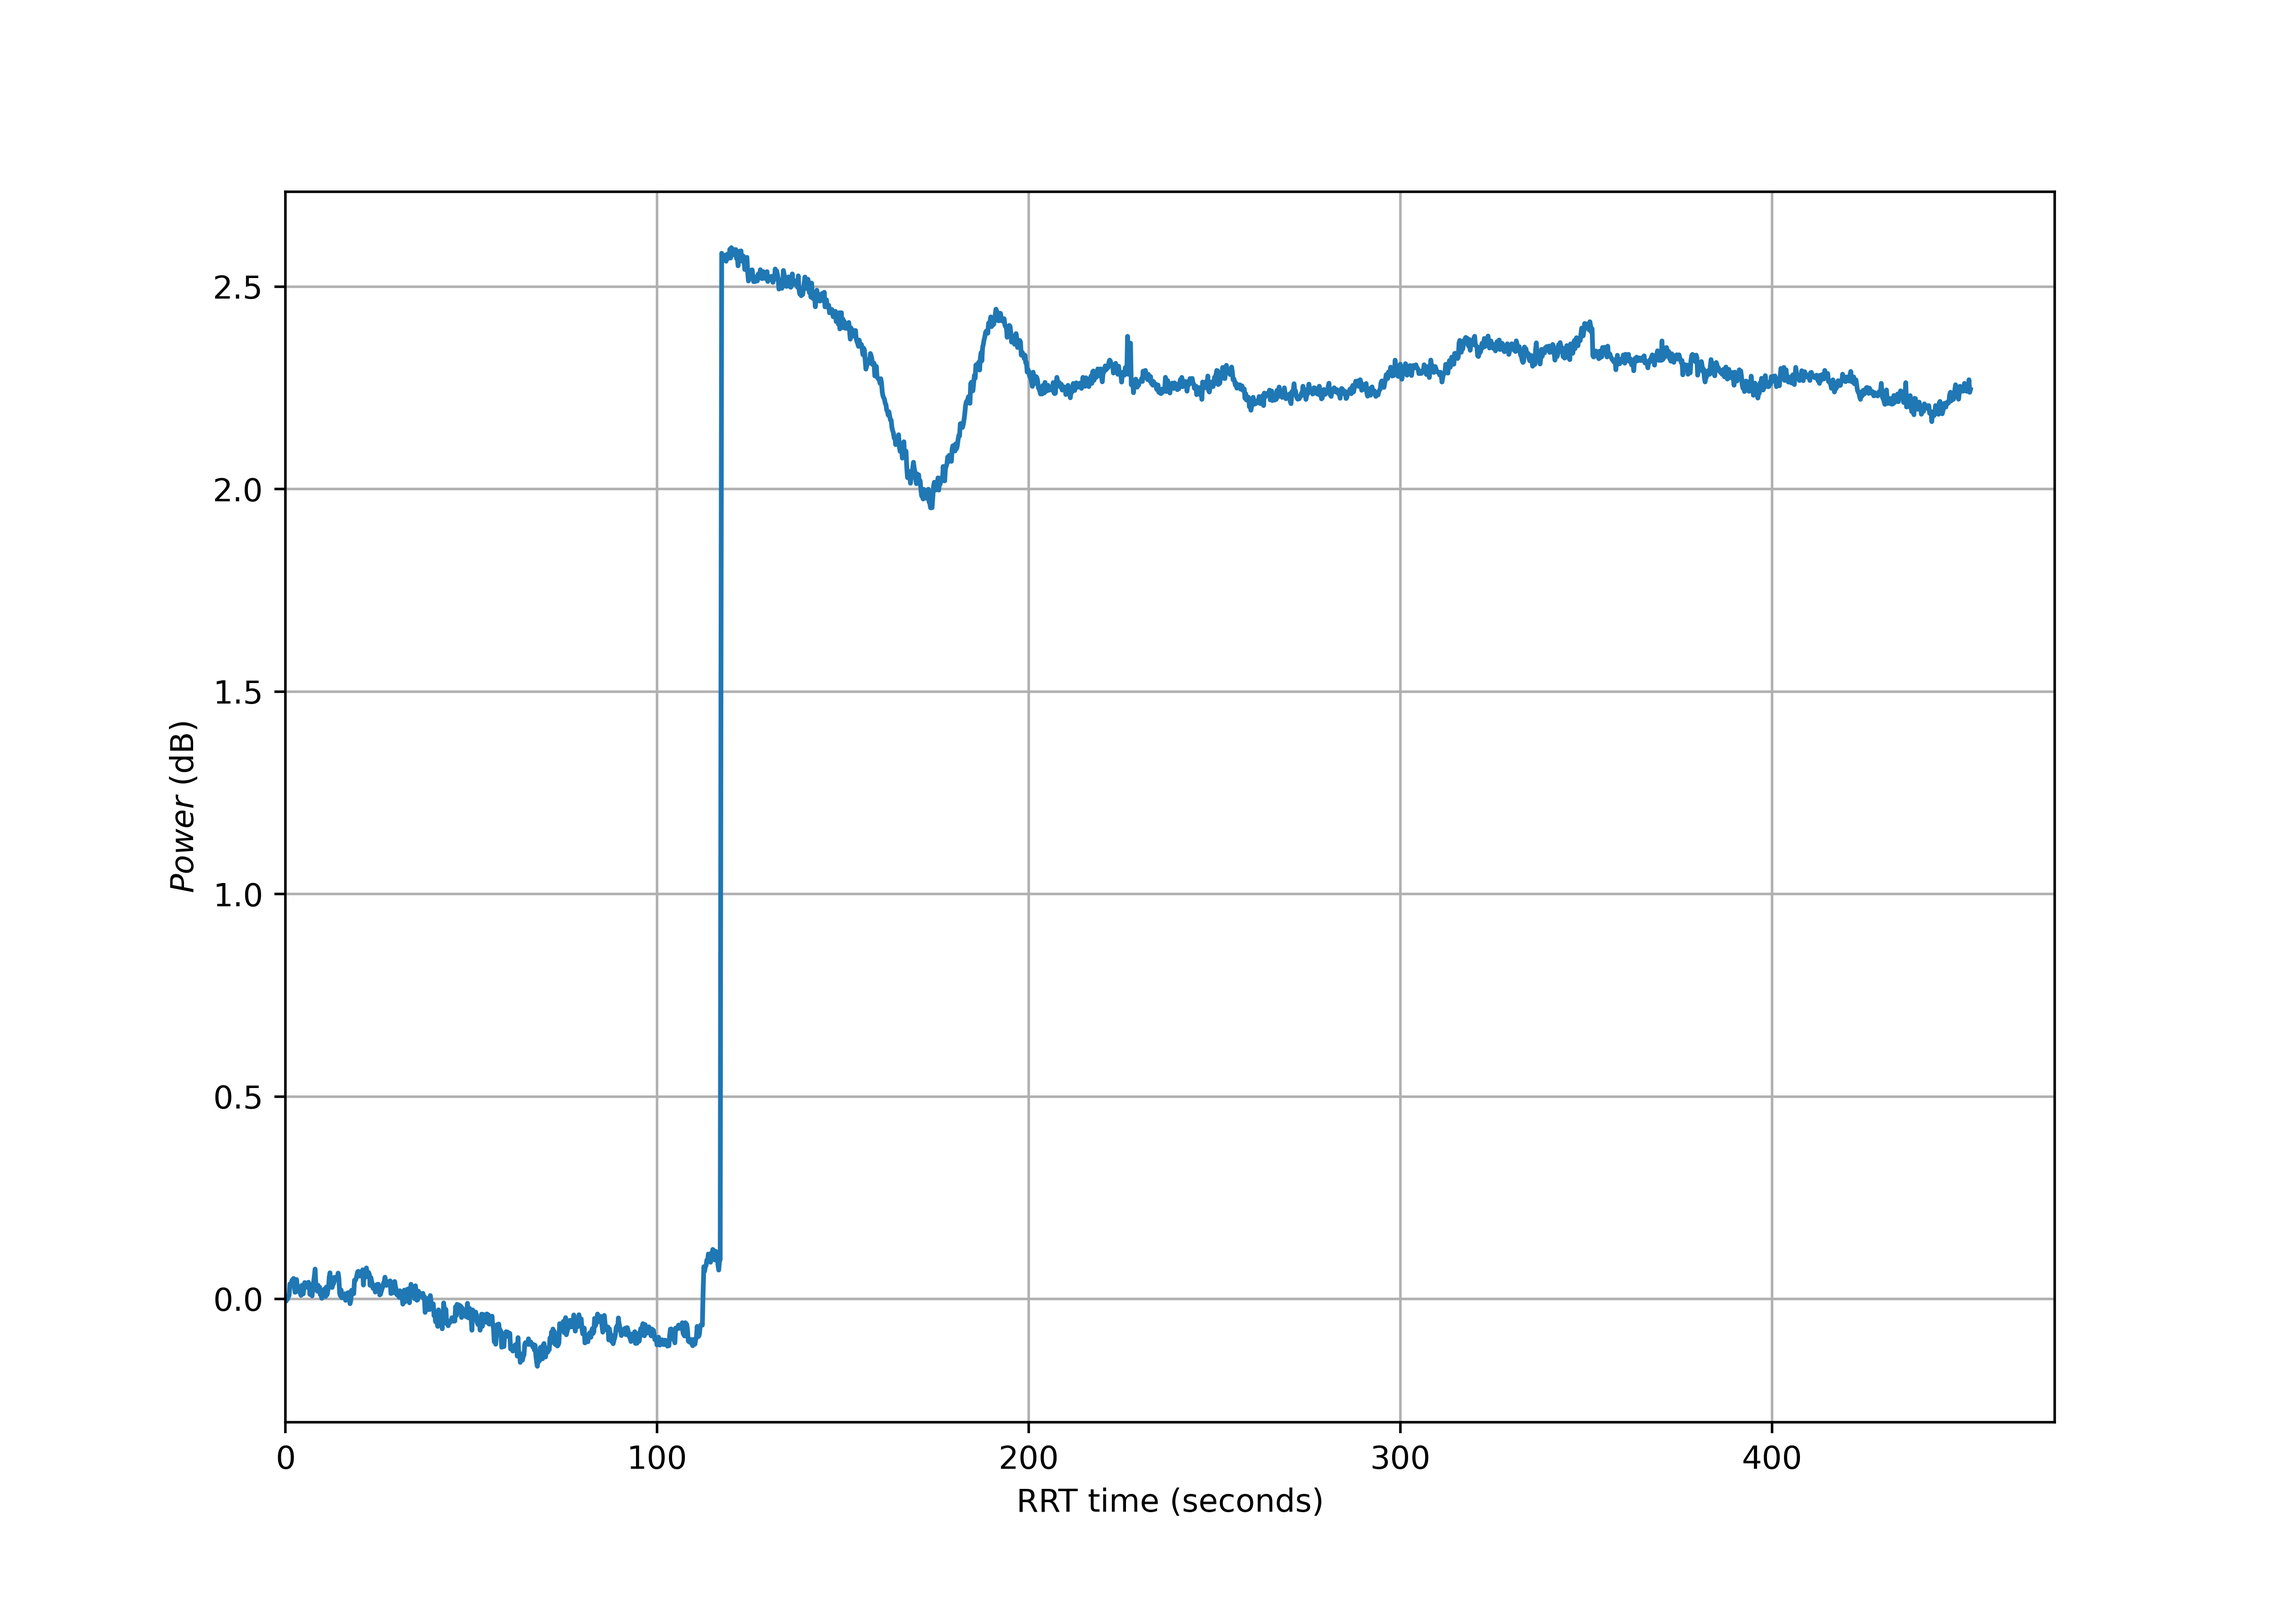
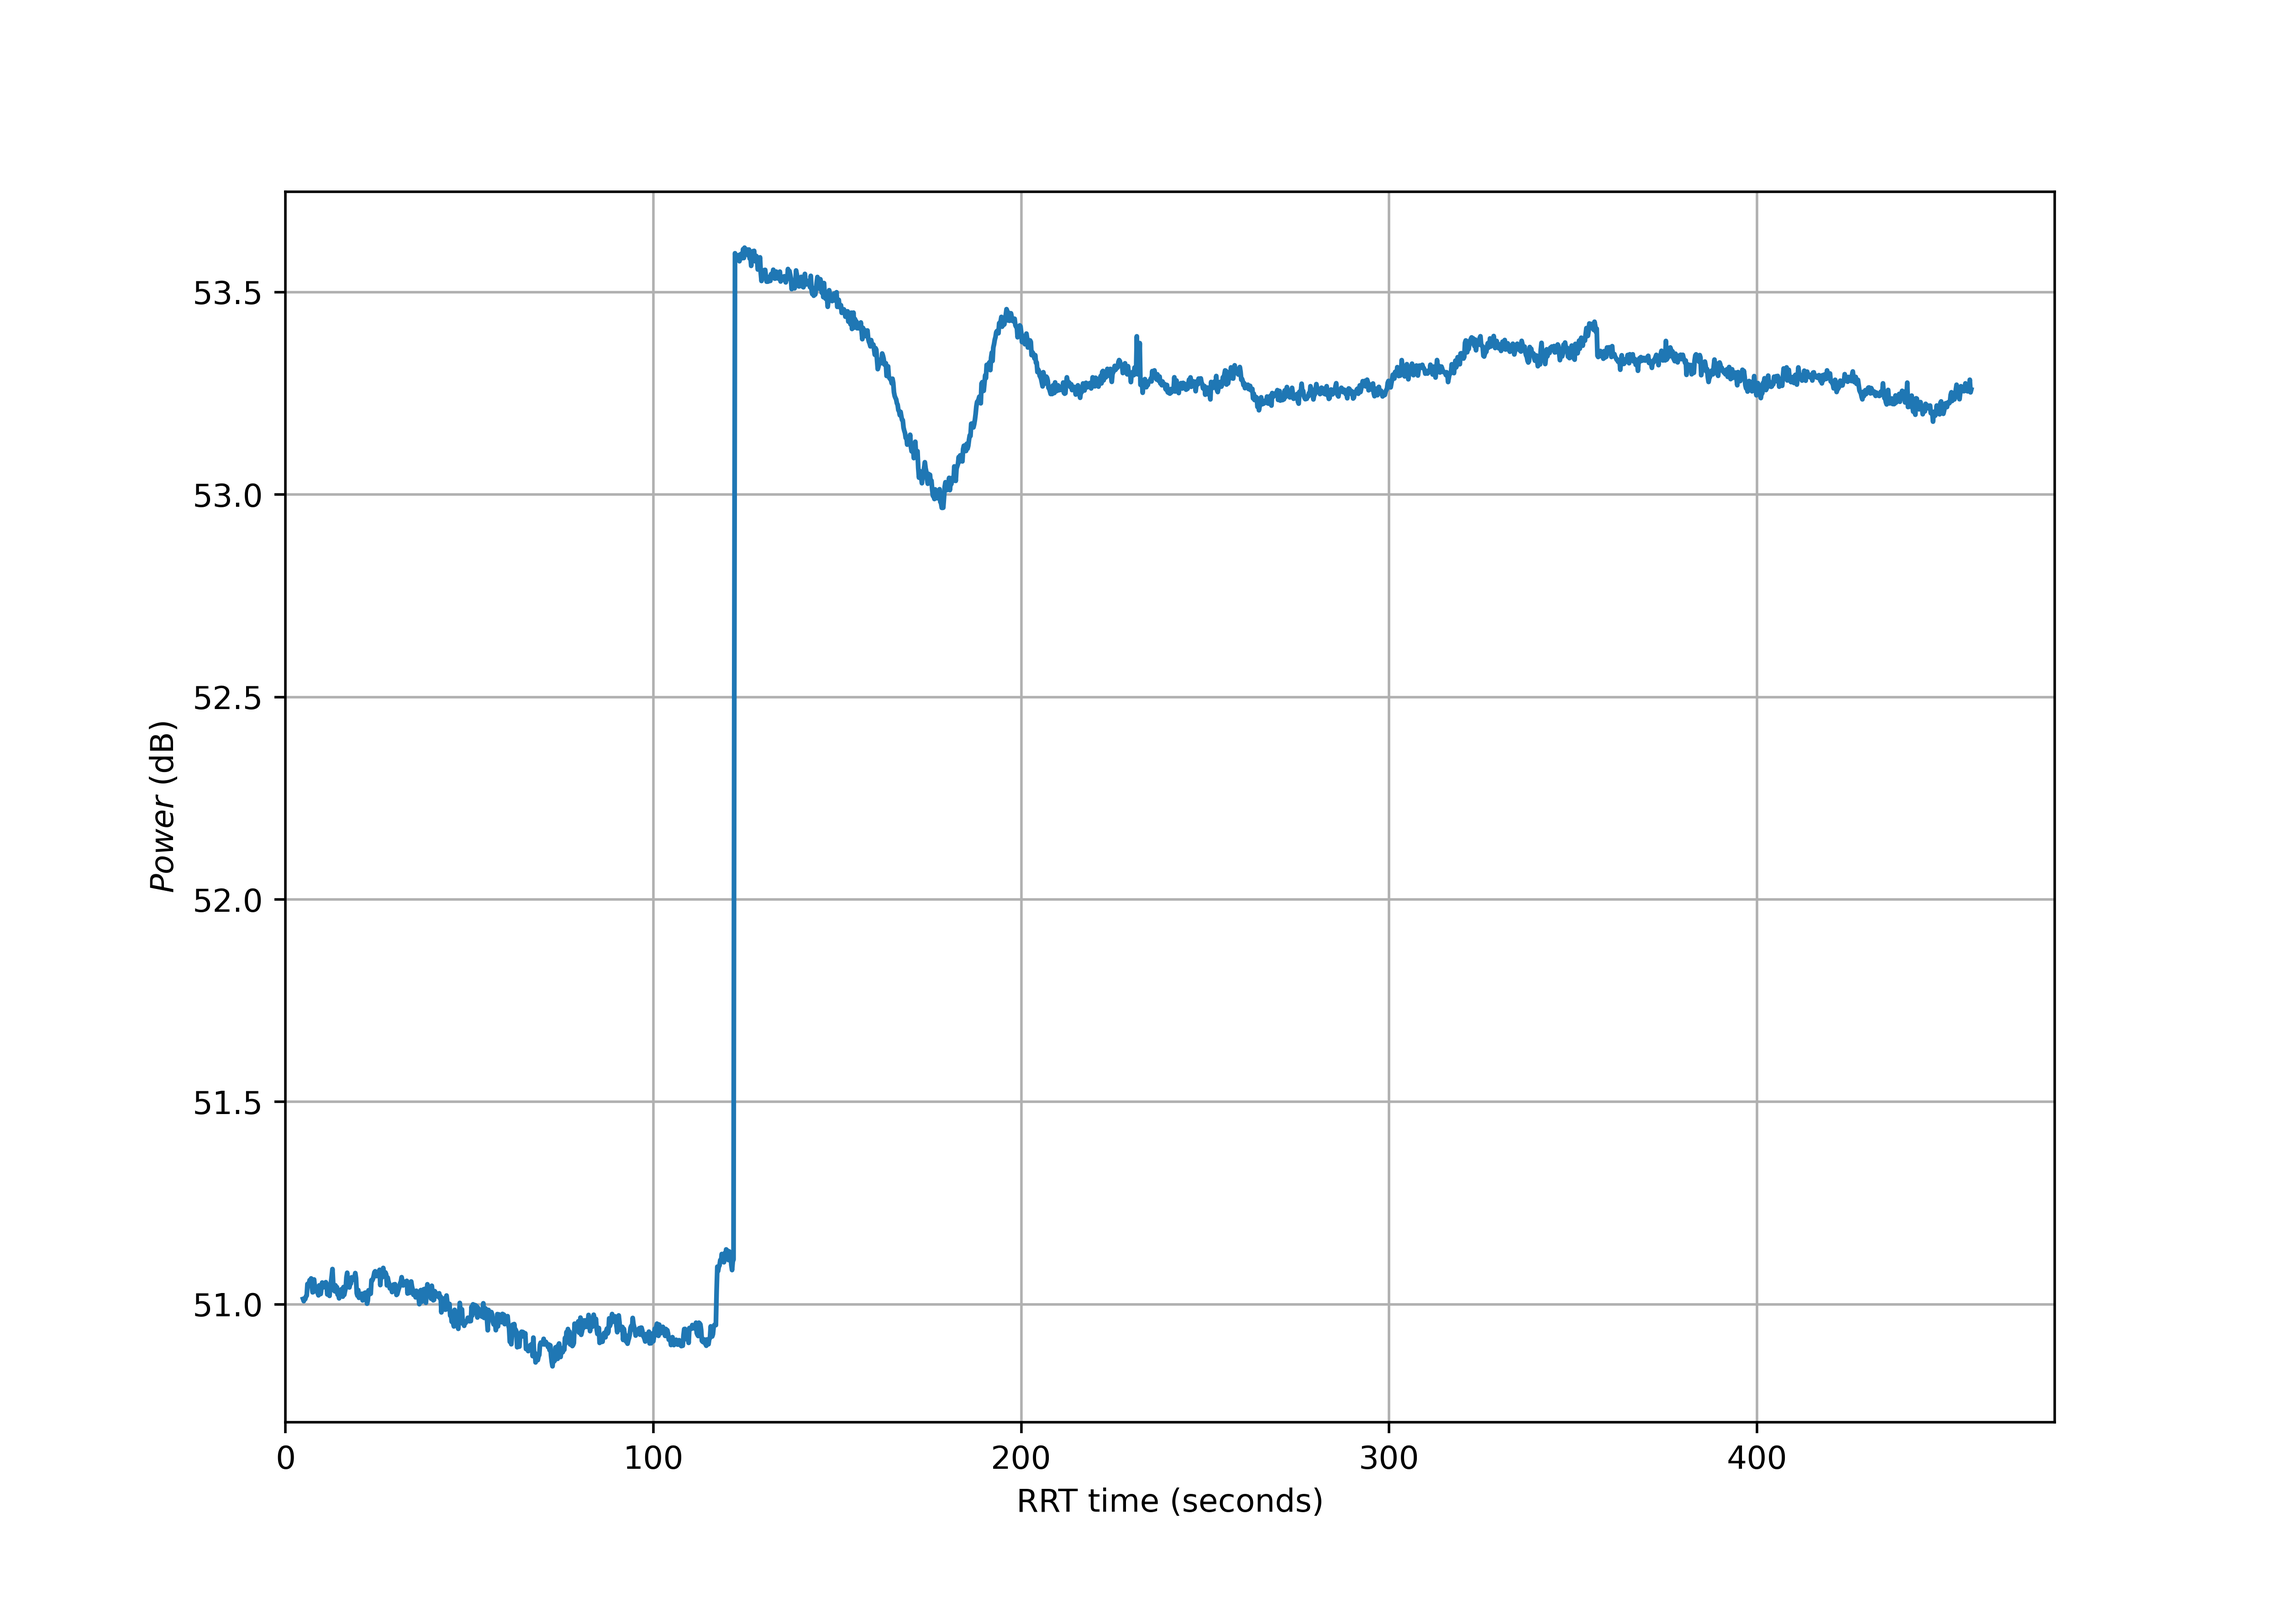
power check done

diff --git a/scripts/power_detect.py b/scripts/power_detect.py
@@ -10,25 +10,78 @@ ds7_power2MHz_df = power_parse('data/ds7/tb7power2MHz.mat',  norm = False)
 
 def clean_dat_PL(df_power):
     #parameter learning via MLE
+    #assuming the the signal power is a Gaussian distribution
     u = np.average(df_power['power'])
     var = np.sum([(df_power['power'].iloc[i]-u)**2 for i in range(len(df_power['power']))])/(len(df_power['power']))
+    return u,var
 
-    return [u,var]
+def spoofed_mean(df_power):
+    u = np.average(df_power['power'][0:400])
+    return u
+
+def simple_H_test(df_power_test, v_t):
+
+    h_val = np.zeros(len(df_power_test['time']))
+
+    for i in range(len(h_val)):
+        if np.abs(df_power_test['power'].iloc[i]) > v_t:
+            h_val[i] = 1
+
+    return h_val
 
 
+def power_check_plots(clean_df, spoofed_df, mean, variance, plot_name):
 
-print(clean_dat_PL(clean_power2MHz_df))
-print(np.var(clean_power2MHz_df['power']))
+    spoofed_h_test = simple_H_test(spoofed_df, mean + 4*np.sqrt(variance))
+    first_one = spoofed_df['time'].iloc[np.argmax(spoofed_h_test)]
+    print(f'First detection at {first_one}')
 
-# fig = plt.figure(dpi = 500, figsize =[10 ,7])
-# plt.plot(clean_power2MHz_df['time'], clean_power2MHz_df['power'], label = 'clean')
-# plt.plot(ds2_power2MHz_df['time'],ds2_power2MHz_df['power'], label = 'ds2')
-# plt.plot(ds3_power2MHz_df['time'],ds3_power2MHz_df['power'], label = 'ds3')
-# plt.plot(ds7_power2MHz_df['time'],ds7_power2MHz_df['power'], label = 'ds7')
-# # plt.xlim(0,100)
-# # plt.ylim(8,9)
-# plt.grid()
-# plt.xlabel('RRT time (seconds)')
-# plt.ylabel('Power (dB)')
-# plt.legend()
-# fig.savefig('figures/comparison/power.png')
+    fig = plt.figure(dpi = 500, figsize =[10 ,4.5])
+    plt.plot(clean_df['time'], clean_df['power']- clean_df['power'][0] , label = 'clean', color = 'grey')
+    plt.plot(spoofed_df['time'], spoofed_df['power'] - spoofed_df['power'][0] , label = 'spoofed', color = 'k')
+
+    plt.plot(clean_df['time'], np.zeros(len(clean_df['time']))*mean + 4*np.sqrt(variance), '--', color = 'tab:red', label = '$\pm 4\sigma$')
+    plt.plot(clean_df['time'], np.zeros(len(clean_df['time']))*mean - 4*np.sqrt(variance), '--', color = 'tab:red')
+
+    plt.xlim(0,500)
+    # plt.ylim(-0.3,0.2)
+    plt.grid()
+    plt.xlabel('RRT time (seconds)')
+    plt.ylabel('Normalized Power (dB)')
+    plt.legend()
+    fig.savefig('figures/comparison/'+plot_name+'_power.png')
+
+    fig, axs = plt.subplots(2, 1)
+
+    axs[0].plot(spoofed_df['time'], spoofed_df['power'] , label = 'ds7', color = 'k')
+    axs[0].plot(clean_df['time'], np.ones(len(clean_df['time']))*mean + 4*np.sqrt(variance), '--', color = 'tab:red', label = '$\pm 4\sigma$')
+    axs[0].plot(clean_df['time'], np.ones(len(clean_df['time']))*mean - 4*np.sqrt(variance), '--', color = 'tab:red')
+    axs[0].set_xlim(0,500)
+    axs[0].grid()
+    axs[0].set_ylabel('P (dB)')
+    axs[0].legend()
+
+    axs[1].plot(spoofed_df['time'],spoofed_h_test, '.-', markersize = 4, lw = 0.5)
+    axs[1].set_xlim(0,500)
+    axs[1].grid()
+    axs[1].set_xlabel('RRT time (seconds)')
+    axs[1].set_ylabel('Detection')
+    axs[1].set_yticks(range(0,2))
+    fig.set_figheight(6)
+    fig.set_figwidth(10)
+    fig.tight_layout()
+    fig.savefig('figures/comparison/'+plot_name+'_h_test.png')
+
+
+clean_mean, clean_variance = clean_dat_PL(clean_power2MHz_df)
+from statistics import NormalDist
+prob = 2*(NormalDist(mu =clean_mean, sigma = np.sqrt(clean_variance)).cdf(clean_mean+4*(np.sqrt(clean_variance))) - 0.5)
+print(f'Interval of confidence  = {prob}')
+print(f'Probability of false detection  = {1-prob}') #not the same as false positive rate
+
+
+power_check_plots(clean_power2MHz_df, ds7_power2MHz_df, clean_mean, clean_variance, 'clean_vs_ds7')
+power_check_plots(clean_power2MHz_df, ds2_power2MHz_df, spoofed_mean(ds2_power2MHz_df), clean_variance, 'clean_vs_ds2')
+power_check_plots(clean_power2MHz_df, ds3_power2MHz_df, spoofed_mean(ds3_power2MHz_df), clean_variance, 'clean_vs_ds3')
+
+# power_check_plots(clean_power2MHz_df, ds7_power2MHz_df, clean_mean, clean_variance, 'clean_vs_ds7')
